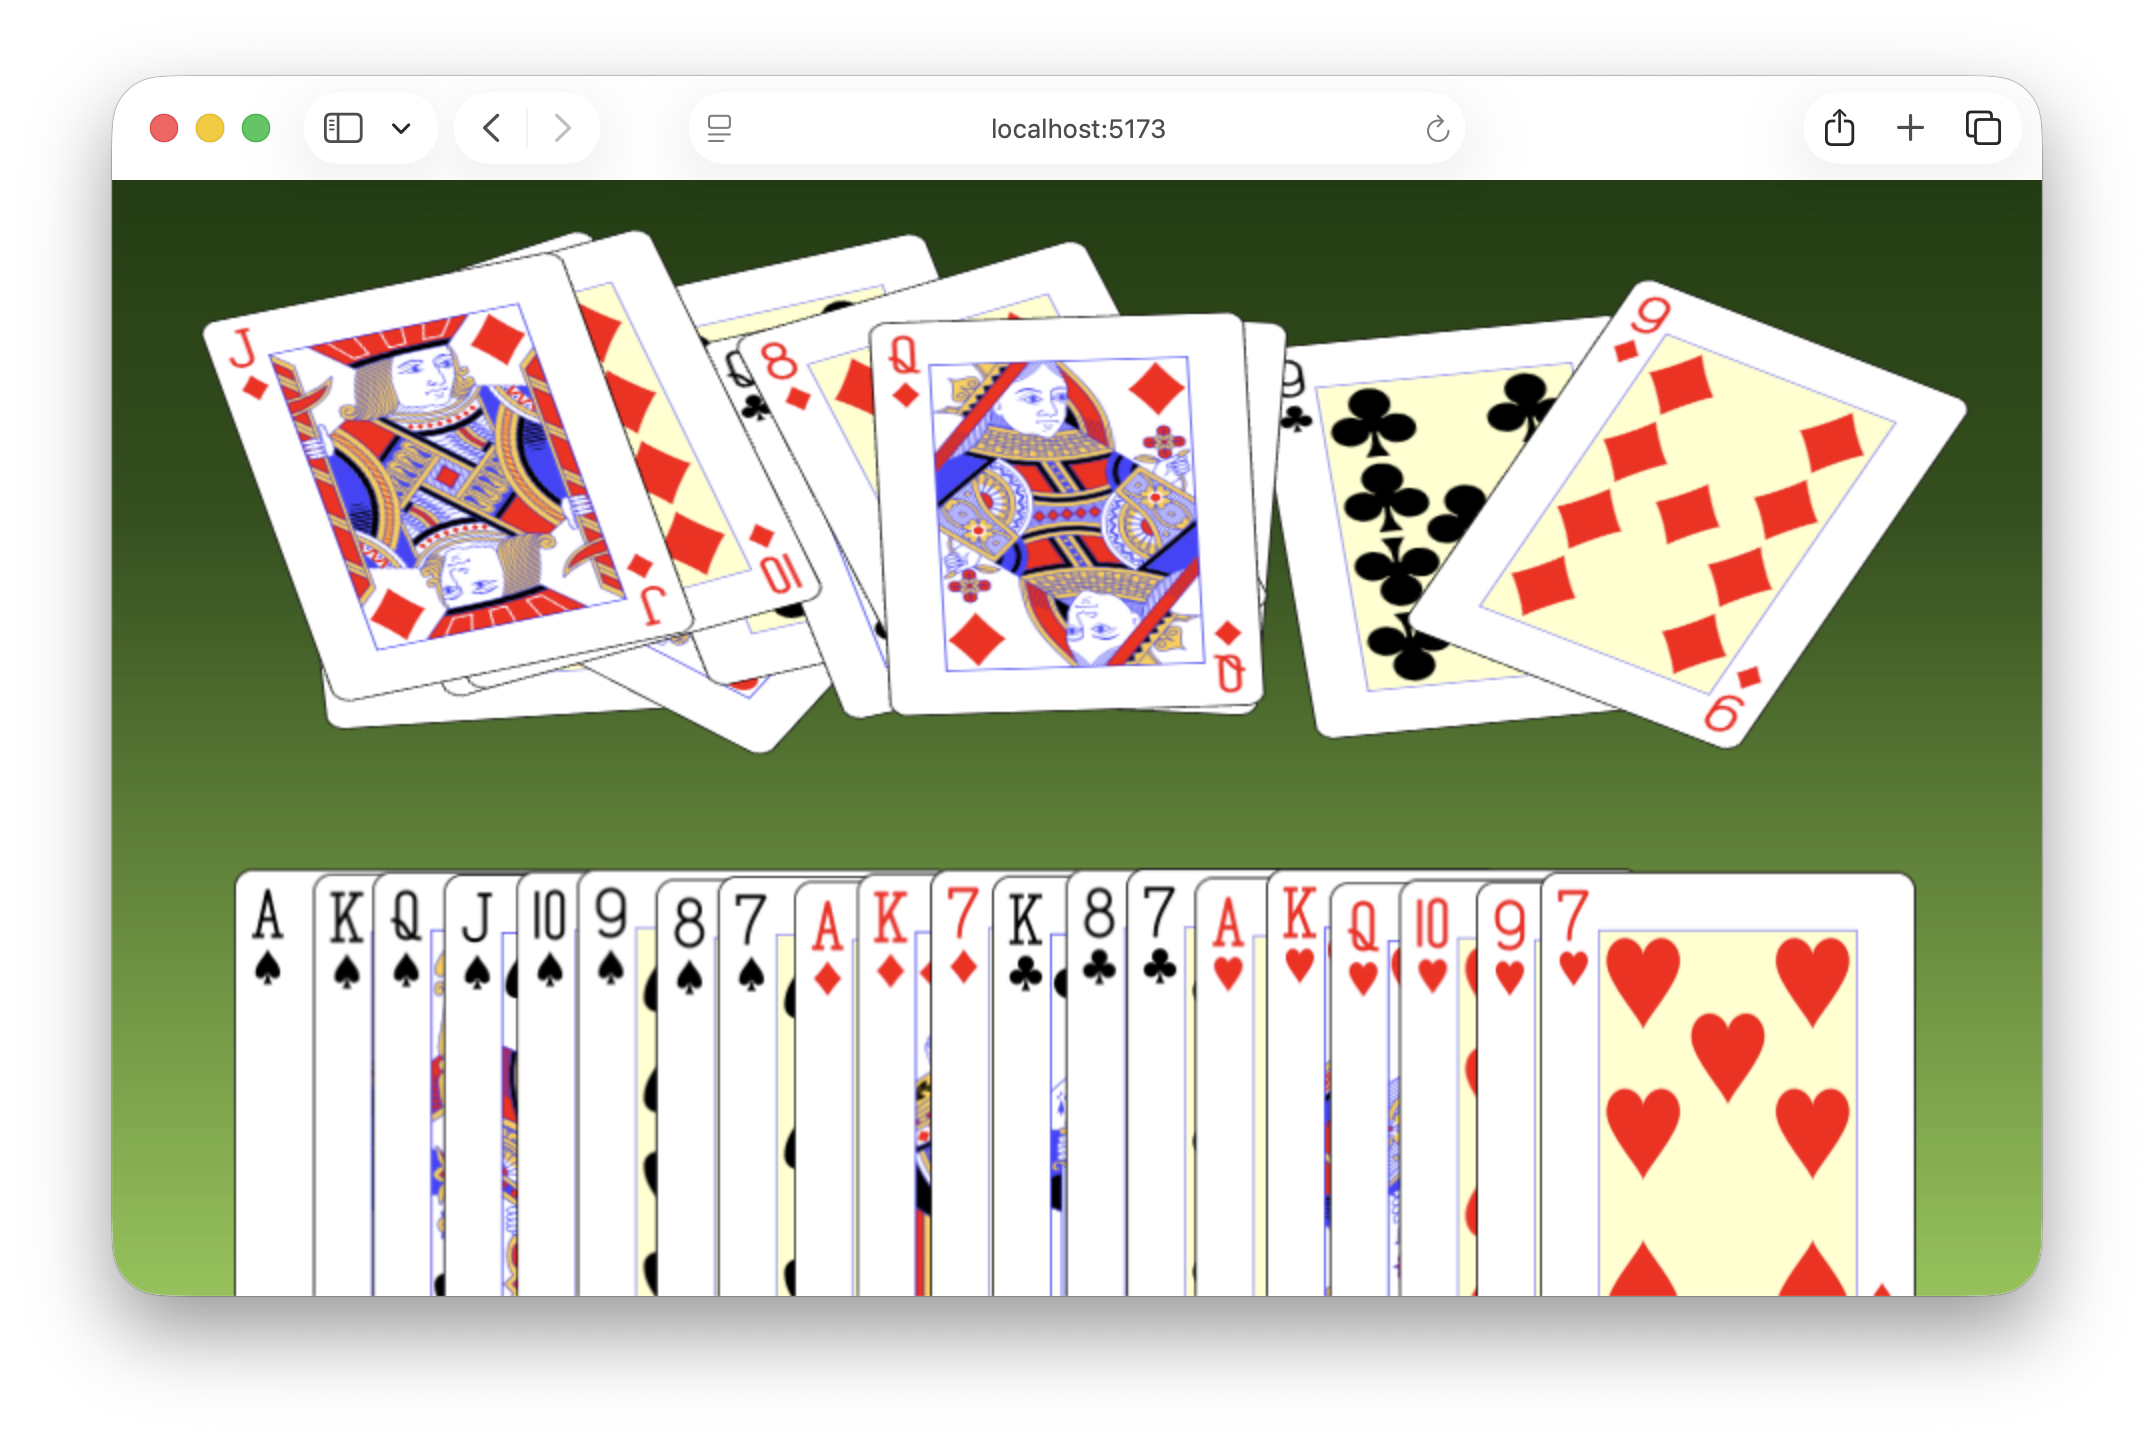
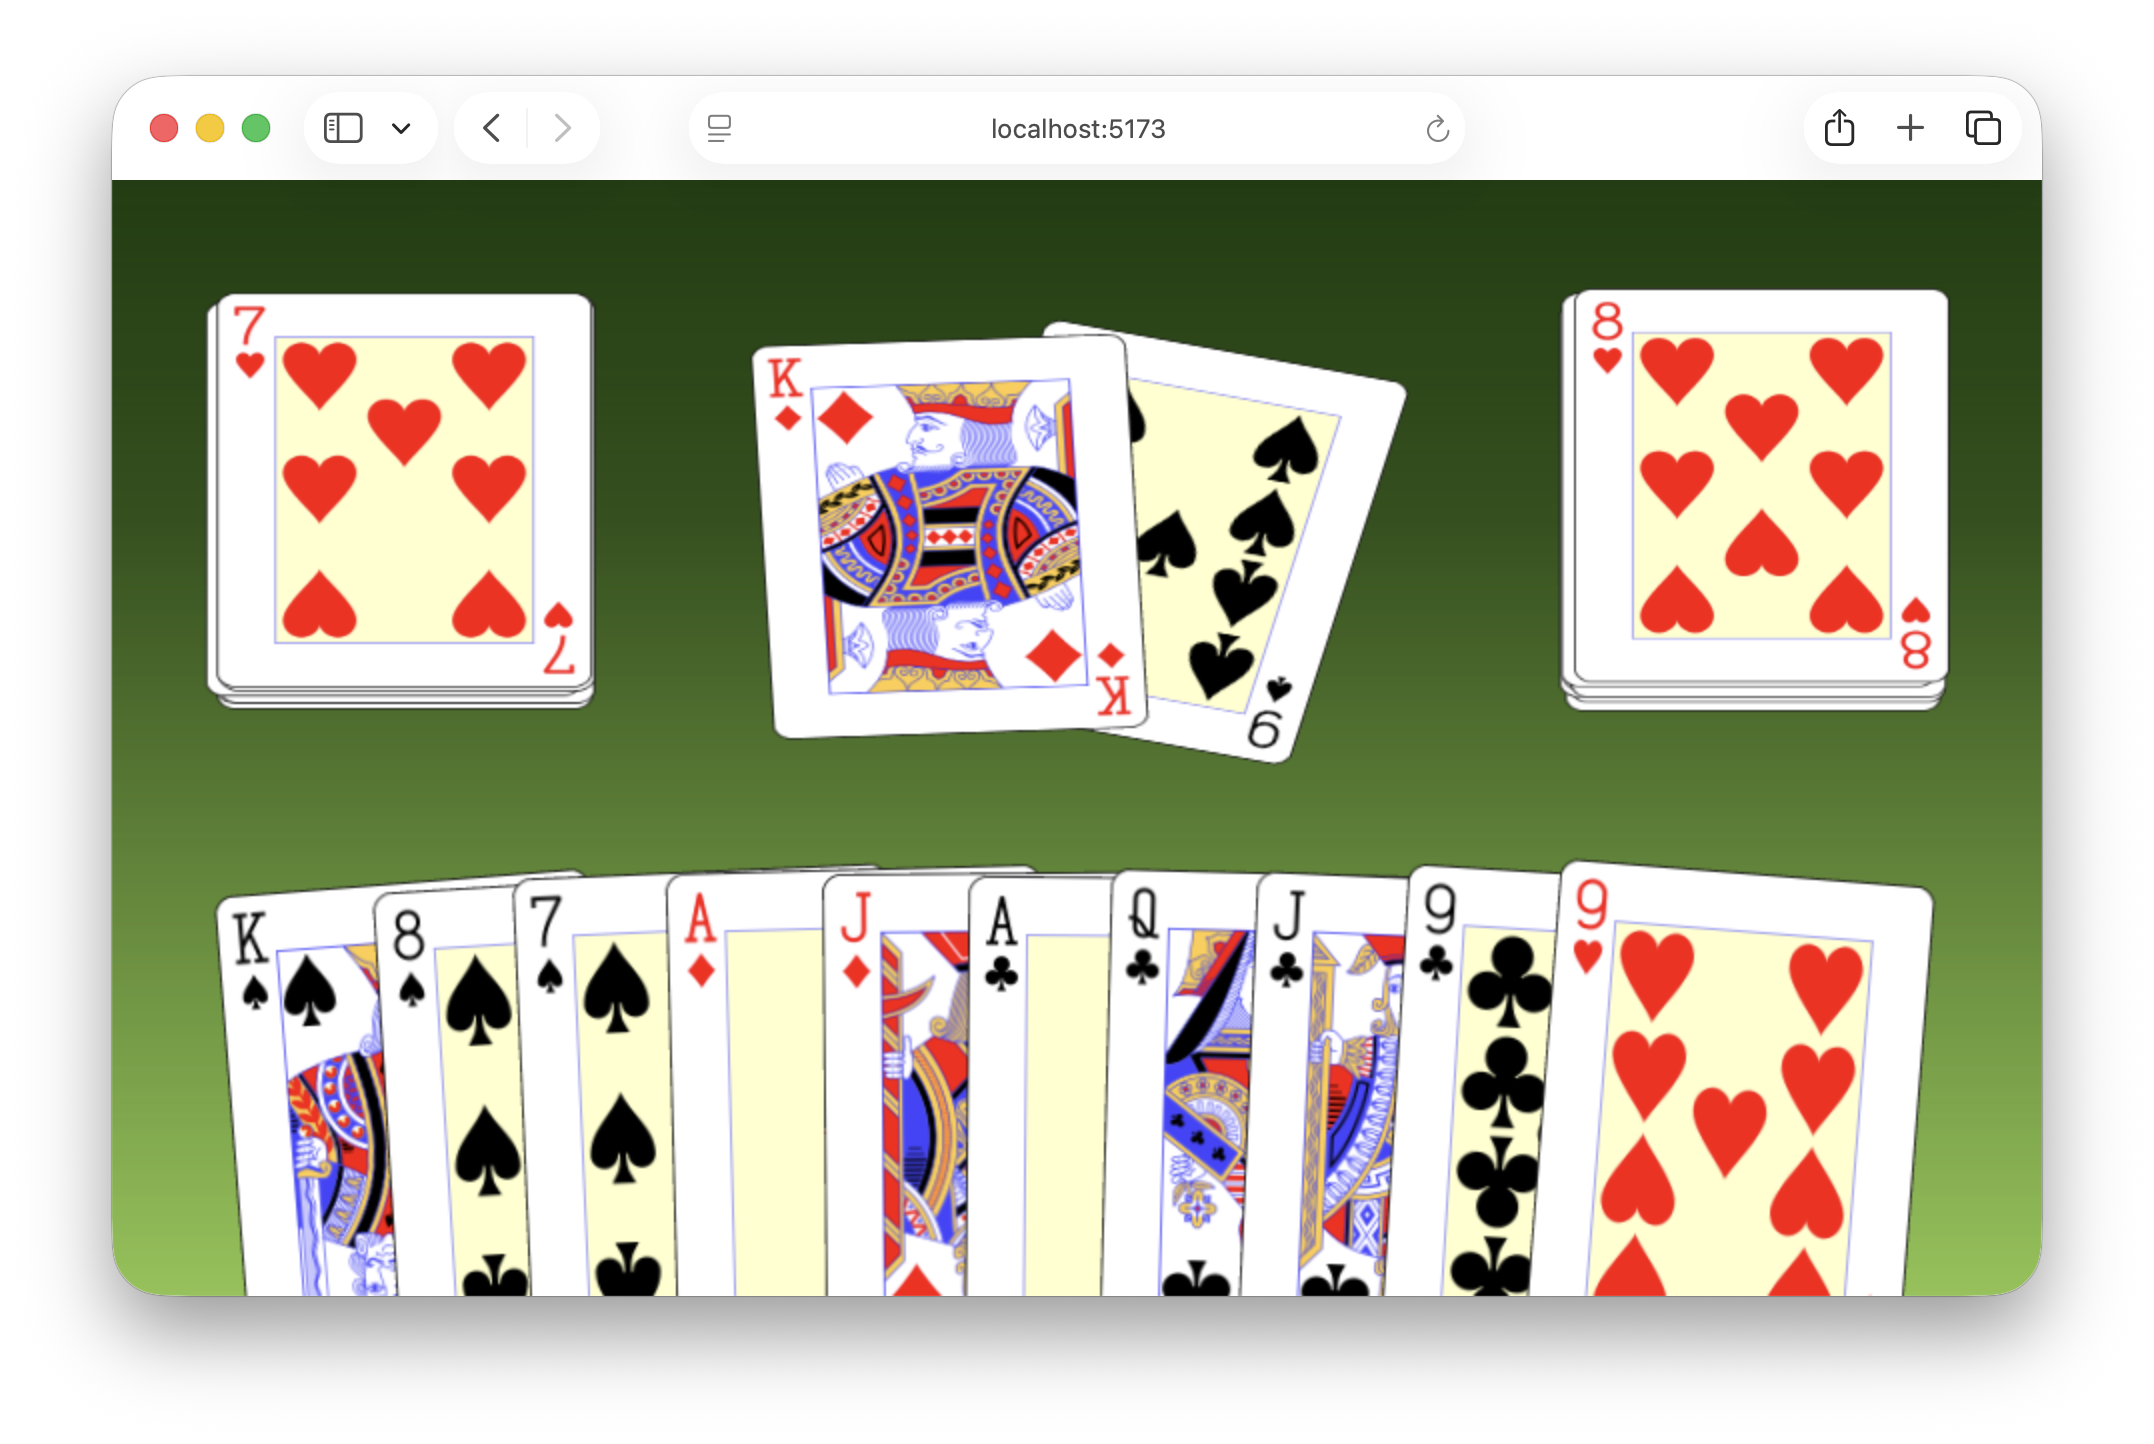
Add tilt to the hand cards at the bottom

diff --git a/playing-cards-2-planes/Hand.js b/playing-cards-2-planes/Hand.js
@@ -26,6 +26,7 @@ export class Hand extends Container {
 
     const targetX = card.x;
     const targetY = card.y;
+    const targetAngle = card.angle;
 
     if (startPos) {
       // Animate card from startPos to target position (moving from another container)
@@ -35,7 +36,7 @@ export class Hand extends Container {
       card.alpha = startAlpha;
 
       const tween = new Tween(card, Card.tweenGroup)
-        .to({ x: targetX, y: targetY, angle: 0, alpha: 1 }, TWEEN_DURATION)
+        .to({ x: targetX, y: targetY, angle: targetAngle, alpha: 1 }, TWEEN_DURATION)
         .easing(Easing.Cubic.Out)
         .onComplete(() => card.enableHoverEffect());
       Card.tweenGroup.add(tween);
@@ -63,6 +64,7 @@ export class Hand extends Container {
       card.x = this.screen.width / 2;
       card.y = this.screen.height - 0.3 * CARD_HEIGHT;
       card.baseY = card.y;
+      card.angle = 0;
       return;
     }
 
@@ -85,12 +87,16 @@ export class Hand extends Container {
     const totalCardsWidth = (totalCards - 1) * spacingBetweenCards;
     const firstCardX = this.screen.width / 2 - totalCardsWidth / 2;
 
+    const middleIndex = (totalCards - 1) / 2;
+
     cards.forEach((card, index) => {
       card.x = firstCardX + index * spacingBetweenCards + card.jitterX;
       // Position so only 60% of card height is visible from the top
       card.y = this.screen.height - 0.3 * CARD_HEIGHT + card.jitterY;
       // Store base Y position for hover effect
       card.baseY = card.y;
+      // Apply tilt: 0 degrees at middle, increasing by 1 degree per card away from center
+      card.angle = (index - middleIndex) * 1;
     });
   }
 }
